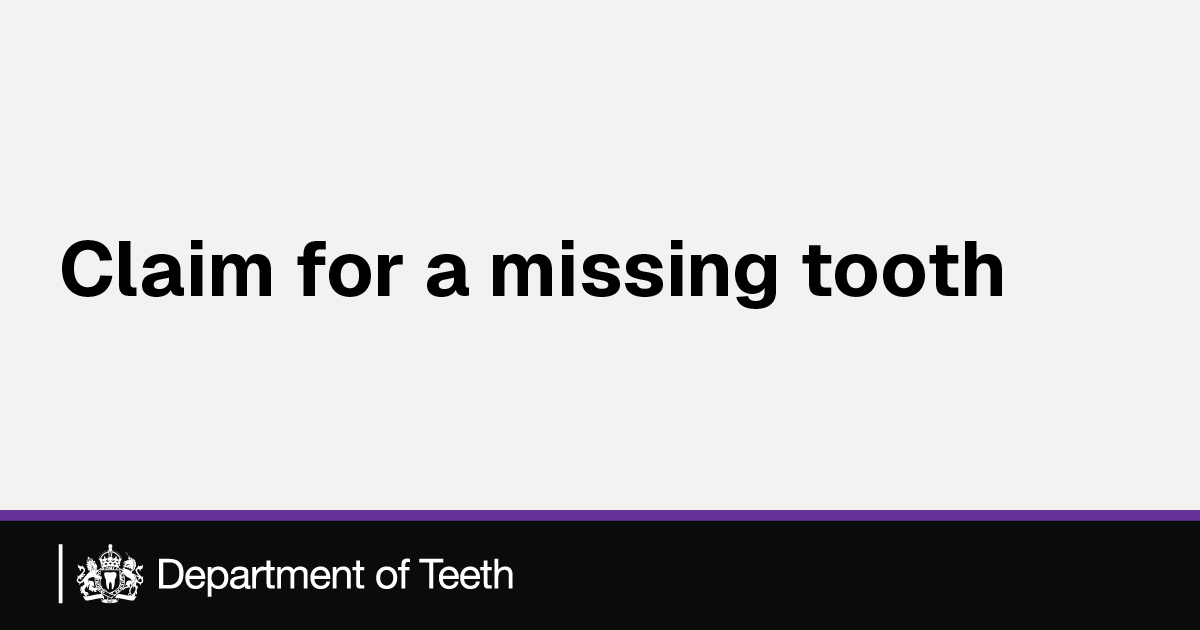
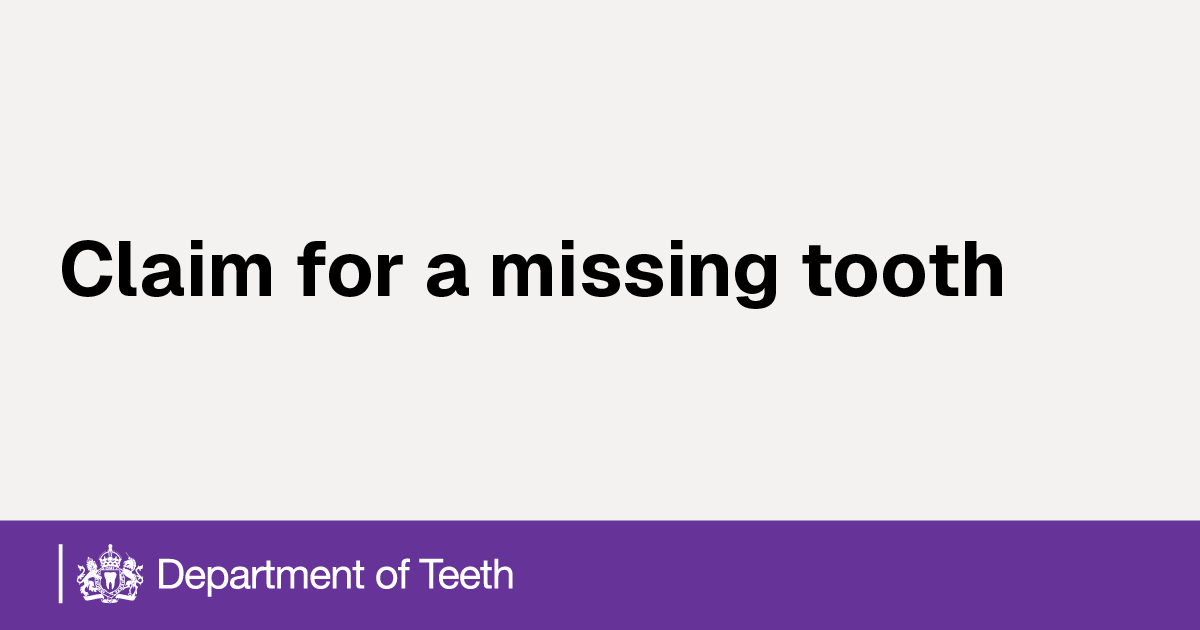
Implement rebrand (#3)
* Implement rebrand

* Add cookie policy

* Update opengraph image

* Update README.md with rebranded screenshot

Changed region(s): [[0.0, 0.7841, 1.0, 1.0]]

diff --git a/layouts/default.vue b/layouts/default.vue
@@ -1,6 +1,6 @@
 <template>
   <gv-skip-link />
-  <gv-header :class="{ 'govuk-header--full-width-border': route.path != '/' }">
+  <gv-header>
     <template #logo>
       <div class="govuk-header__logo">
         <a
@@ -13,7 +13,7 @@
             role="img"
             class="govuk-header__logotype"
             xmlns="http://www.w3.org/2000/svg"
-            viewBox="0 0 550 71.163"
+            viewBox="0 0 552 71.163"
             height="35"
             fill="currentcolor"
           >
@@ -541,57 +541,92 @@
       </div>
     </main>
   </div>
-  <gv-footer>
-    <template #meta>
-      <gv-footer-meta>
-        <gv-footer-meta-item :component="NuxtLink" to="/admin">Change settings</gv-footer-meta-item>
-      </gv-footer-meta>
-    </template>
-    <template #content-licence>
-      Built by <a class="govuk-footer__link" href="https://matteason.co.uk">Matt Eason</a>,
-      <a
-        class="govuk-footer__link"
-        href="https://bsky.app/profile/seamas.bsky.social/post/3lkigjm7sk222"
-        >Séamas O'Reilly</a
+  <footer class="govuk-footer">
+    <div class="govuk-width-container">
+      <svg
+        focusable="false"
+        role="presentation"
+        xmlns="http://www.w3.org/2000/svg"
+        viewBox="0 0 22 30"
+        height="30"
+        fill="currentcolor"
+        class="govuk-footer__crown"
       >
-      and
-      <a class="govuk-footer__link" href="https://bsky.app/profile/yarrumm.bsky.social"
-        >Michael Murray</a
-      >
-      at the Department of Teeth <br /><br />
-      Code available on
-      <a
-        class="govuk-footer__link"
-        href="https://github.com/matteason/tooth-reimbursement-service"
-        rel="license"
-        >GitHub</a
-      >
-    </template>
-    <template #copyright>
-      <a class="govuk-footer__link govuk-footer__copyright-logo" href="https://matteason.co.uk">
-        © Department of Teeth
-      </a>
-    </template>
-  </gv-footer>
+        <path
+          class="st0"
+          d="M8.3,23.6c0.1,1.7,0.2,3.2,0.3,4.7c0,0.3,0,0.5-0.1,0.8c-0.2,0.6-0.7,0.7-1.1,0.3C7,29,6.6,28.5,6.3,28
+		C5,25.6,4.1,23.1,4,20.4c-0.2-2.3-0.2-4.6-0.4-6.8c0-0.3-0.1-0.7-0.3-1C2.7,11,2,9.5,1.3,7.9C0.8,6.7,0.5,5.4,0.4,4.1
+		C0.2,2.4,1.2,0.8,3.3,0.3c1.3-0.3,2.6-0.2,3.9,0c1.1,0.1,2.3,0.4,3.4,0.6c0.3,0.1,0.7,0,1,0c2-0.5,3.9-0.8,6-0.7c1,0,2,0.3,2.8,0.9
+		c0.9,0.7,1.2,1.6,1.2,2.7c-0.1,1.9-0.7,3.7-1.4,5.4c-0.5,1.1-1,2.2-1.5,3.4c-0.2,0.4-0.3,0.9-0.3,1.4c-0.1,2.7-0.1,5.5-0.6,8.2
+		c-0.4,2.4-1.2,4.6-2.5,6.6c-0.2,0.3-0.4,0.5-0.6,0.8c-0.4,0.4-1,0.2-1.1-0.3c-0.1-0.7-0.1-1.4,0-2.1c0.3-2.8,0.3-5.7-0.6-8.4
+		c-0.2-0.6-0.4-1.1-0.7-1.6c-0.6-0.9-1.6-0.9-2.2,0c-0.9,0.6-1.1,1.6-1.4,2.6c-0.1,0.5-0.2,1-0.3,1.5C8.4,22.1,8.3,22.9,8.3,23.6z"
+        />
+      </svg>
+
+      <div class="govuk-footer__meta">
+        <div class="govuk-footer__meta-item govuk-footer__meta-item--grow">
+          <gv-footer-meta>
+            <gv-footer-meta-item :component="NuxtLink" to="/admin"
+              >Change settings</gv-footer-meta-item
+            >
+            <gv-footer-meta-item :component="NuxtLink" to="/cookies"
+              >Cookie policy</gv-footer-meta-item
+            >
+          </gv-footer-meta>
+
+          <span class="govuk-footer__licence-description">
+            Built by <a class="govuk-footer__link" href="https://matteason.co.uk">Matt Eason</a>,
+            <a
+              class="govuk-footer__link"
+              href="https://bsky.app/profile/seamas.bsky.social/post/3lkigjm7sk222"
+              >Séamas O'Reilly</a
+            >
+            and
+            <a class="govuk-footer__link" href="https://bsky.app/profile/yarrumm.bsky.social"
+              >Michael Murray</a
+            >
+            at the Department of Teeth <br /><br />
+            Code available on
+            <a
+              class="govuk-footer__link"
+              href="https://github.com/matteason/tooth-reimbursement-service"
+              rel="license"
+              >GitHub</a
+            >
+          </span>
+        </div>
+        <div class="govuk-footer__meta-item">
+          <a class="govuk-footer__link govuk-footer__copyright-logo" href="https://matteason.co.uk">
+            © Department of Teeth
+          </a>
+        </div>
+      </div>
+    </div>
+  </footer>
 </template>
 
 <style lang="scss">
 @import url('https://fonts.googleapis.com/css2?family=Geist:wght@100..900&display=swap');
 $govuk-font-family: Geist, arial, sans-serif;
 
+$govuk-brand-colour: rebeccapurple;
+$_govuk-rebrand-template-background-colour: rebeccapurple;
+
 @import '../node_modules/govuk-frontend/dist/govuk/index';
 
-.govuk-header__container,
-.govuk-header--full-width-border {
-  border-bottom-color: rebeccapurple !important;
-}
+.govuk-template--rebranded {
+  &,
+  .govuk-service-navigation,
+  .govuk-footer {
+    background: lighten($govuk-brand-colour, 55%);
+  }
 
-.govuk-header__logo {
-  margin-bottom: 5px;
+  .govuk-service-navigation {
+    border-color: lighten($govuk-brand-colour, 40%);
+  }
 }
-
-.govuk-footer__copyright-logo {
-  background-image: url('/images/crest.svg');
+.govuk-footer__copyright-logo::before {
+  mask-image: url('/images/crest.svg');
 }
 </style>
 <script setup lang="ts">

diff --git a/nuxt.config.ts b/nuxt.config.ts
@@ -7,7 +7,7 @@ export default defineNuxtConfig({
     head: {
       title: 'Claim for a missing tooth',
       htmlAttrs: {
-        class: 'govuk-template',
+        class: 'govuk-template govuk-template--rebranded',
         lang: 'en-GB'
       },
       bodyAttrs: {

diff --git a/pages/cookies.vue b/pages/cookies.vue
@@ -1,0 +1,4 @@
+<template>
+  <h1 class="govuk-heading-xl">Cookie policy</h1>
+  <p class="govuk-body">They're great, eat more of them.</p>
+</template>

diff --git a/README.md b/README.md
@@ -5,7 +5,8 @@ to submit a claim for reimbursement from the Tooth Fairy or the Tooth Fairy's au
 
 You can use the service at [tf230.matteason.co.uk](https://tf230.matteason.co.uk/)
 
-![A screenshot of the service homepage, linked above](https://github.com/user-attachments/assets/6e4935ee-8384-476f-b911-2be5e07a6b15)
+![A screenshot of the service homepage, linked above](https://github.com/user-attachments/assets/4c5ab67e-2384-4c84-b280-dcc10562c56f)
+
 
 ## Translation/localisation
 
